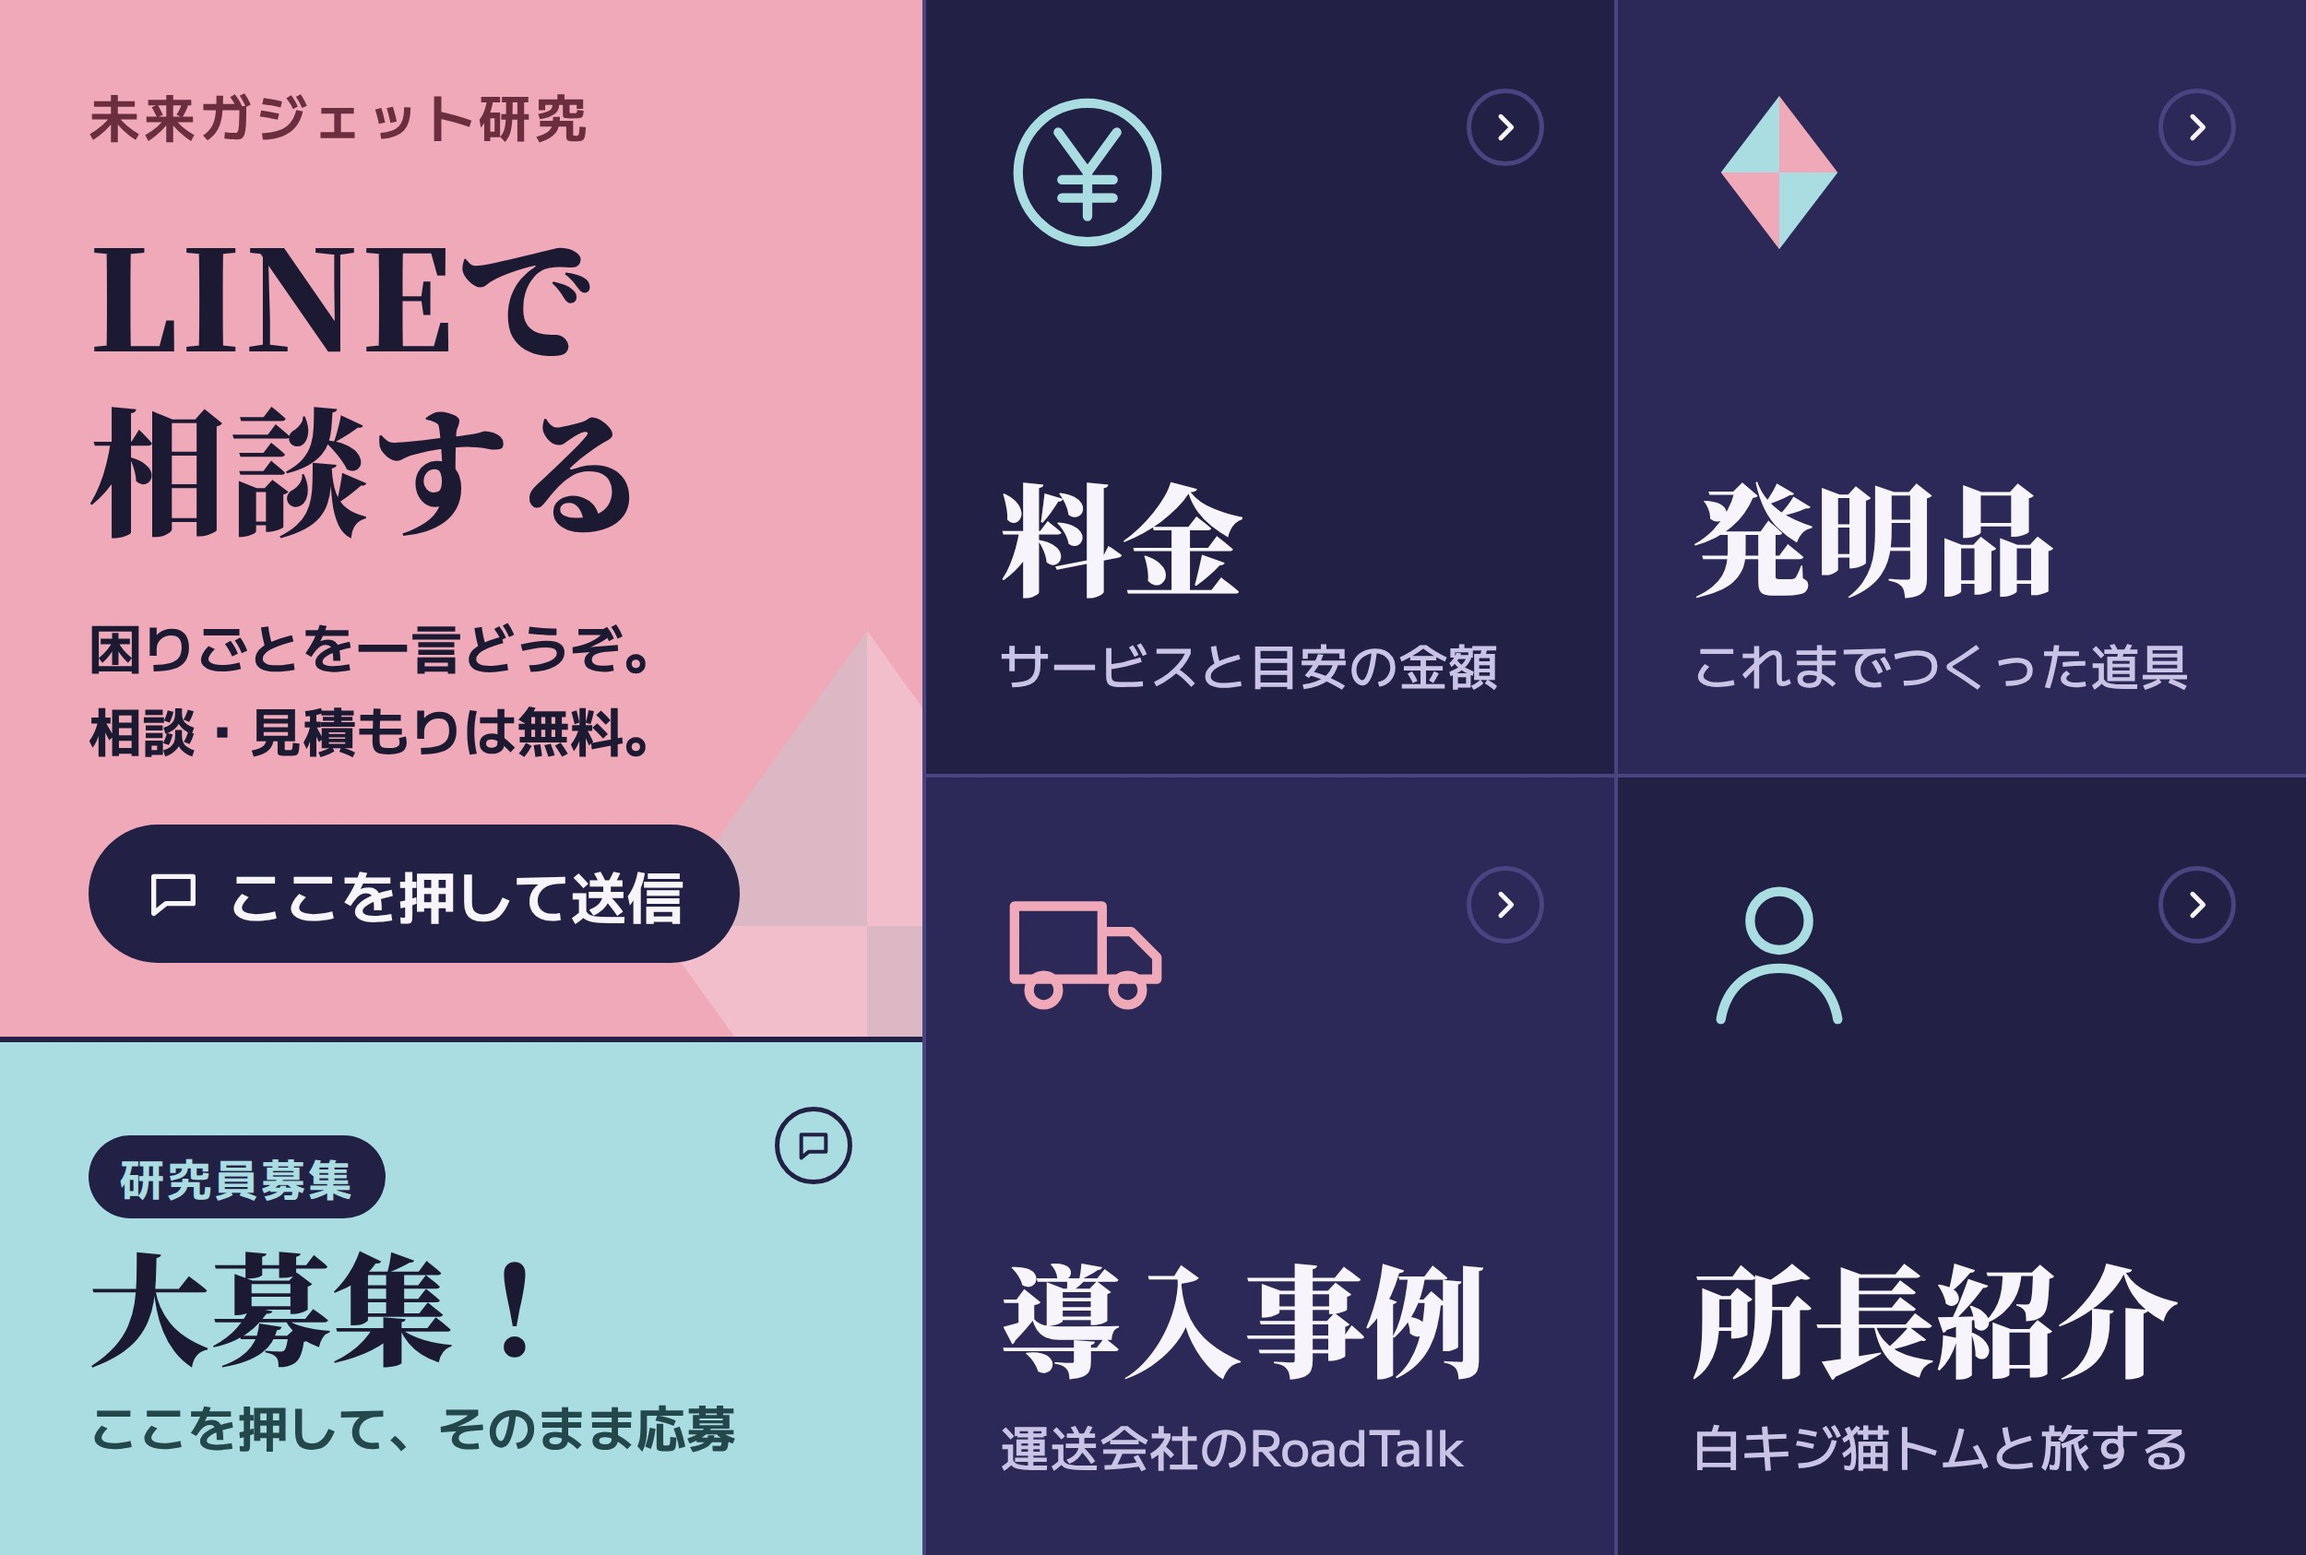
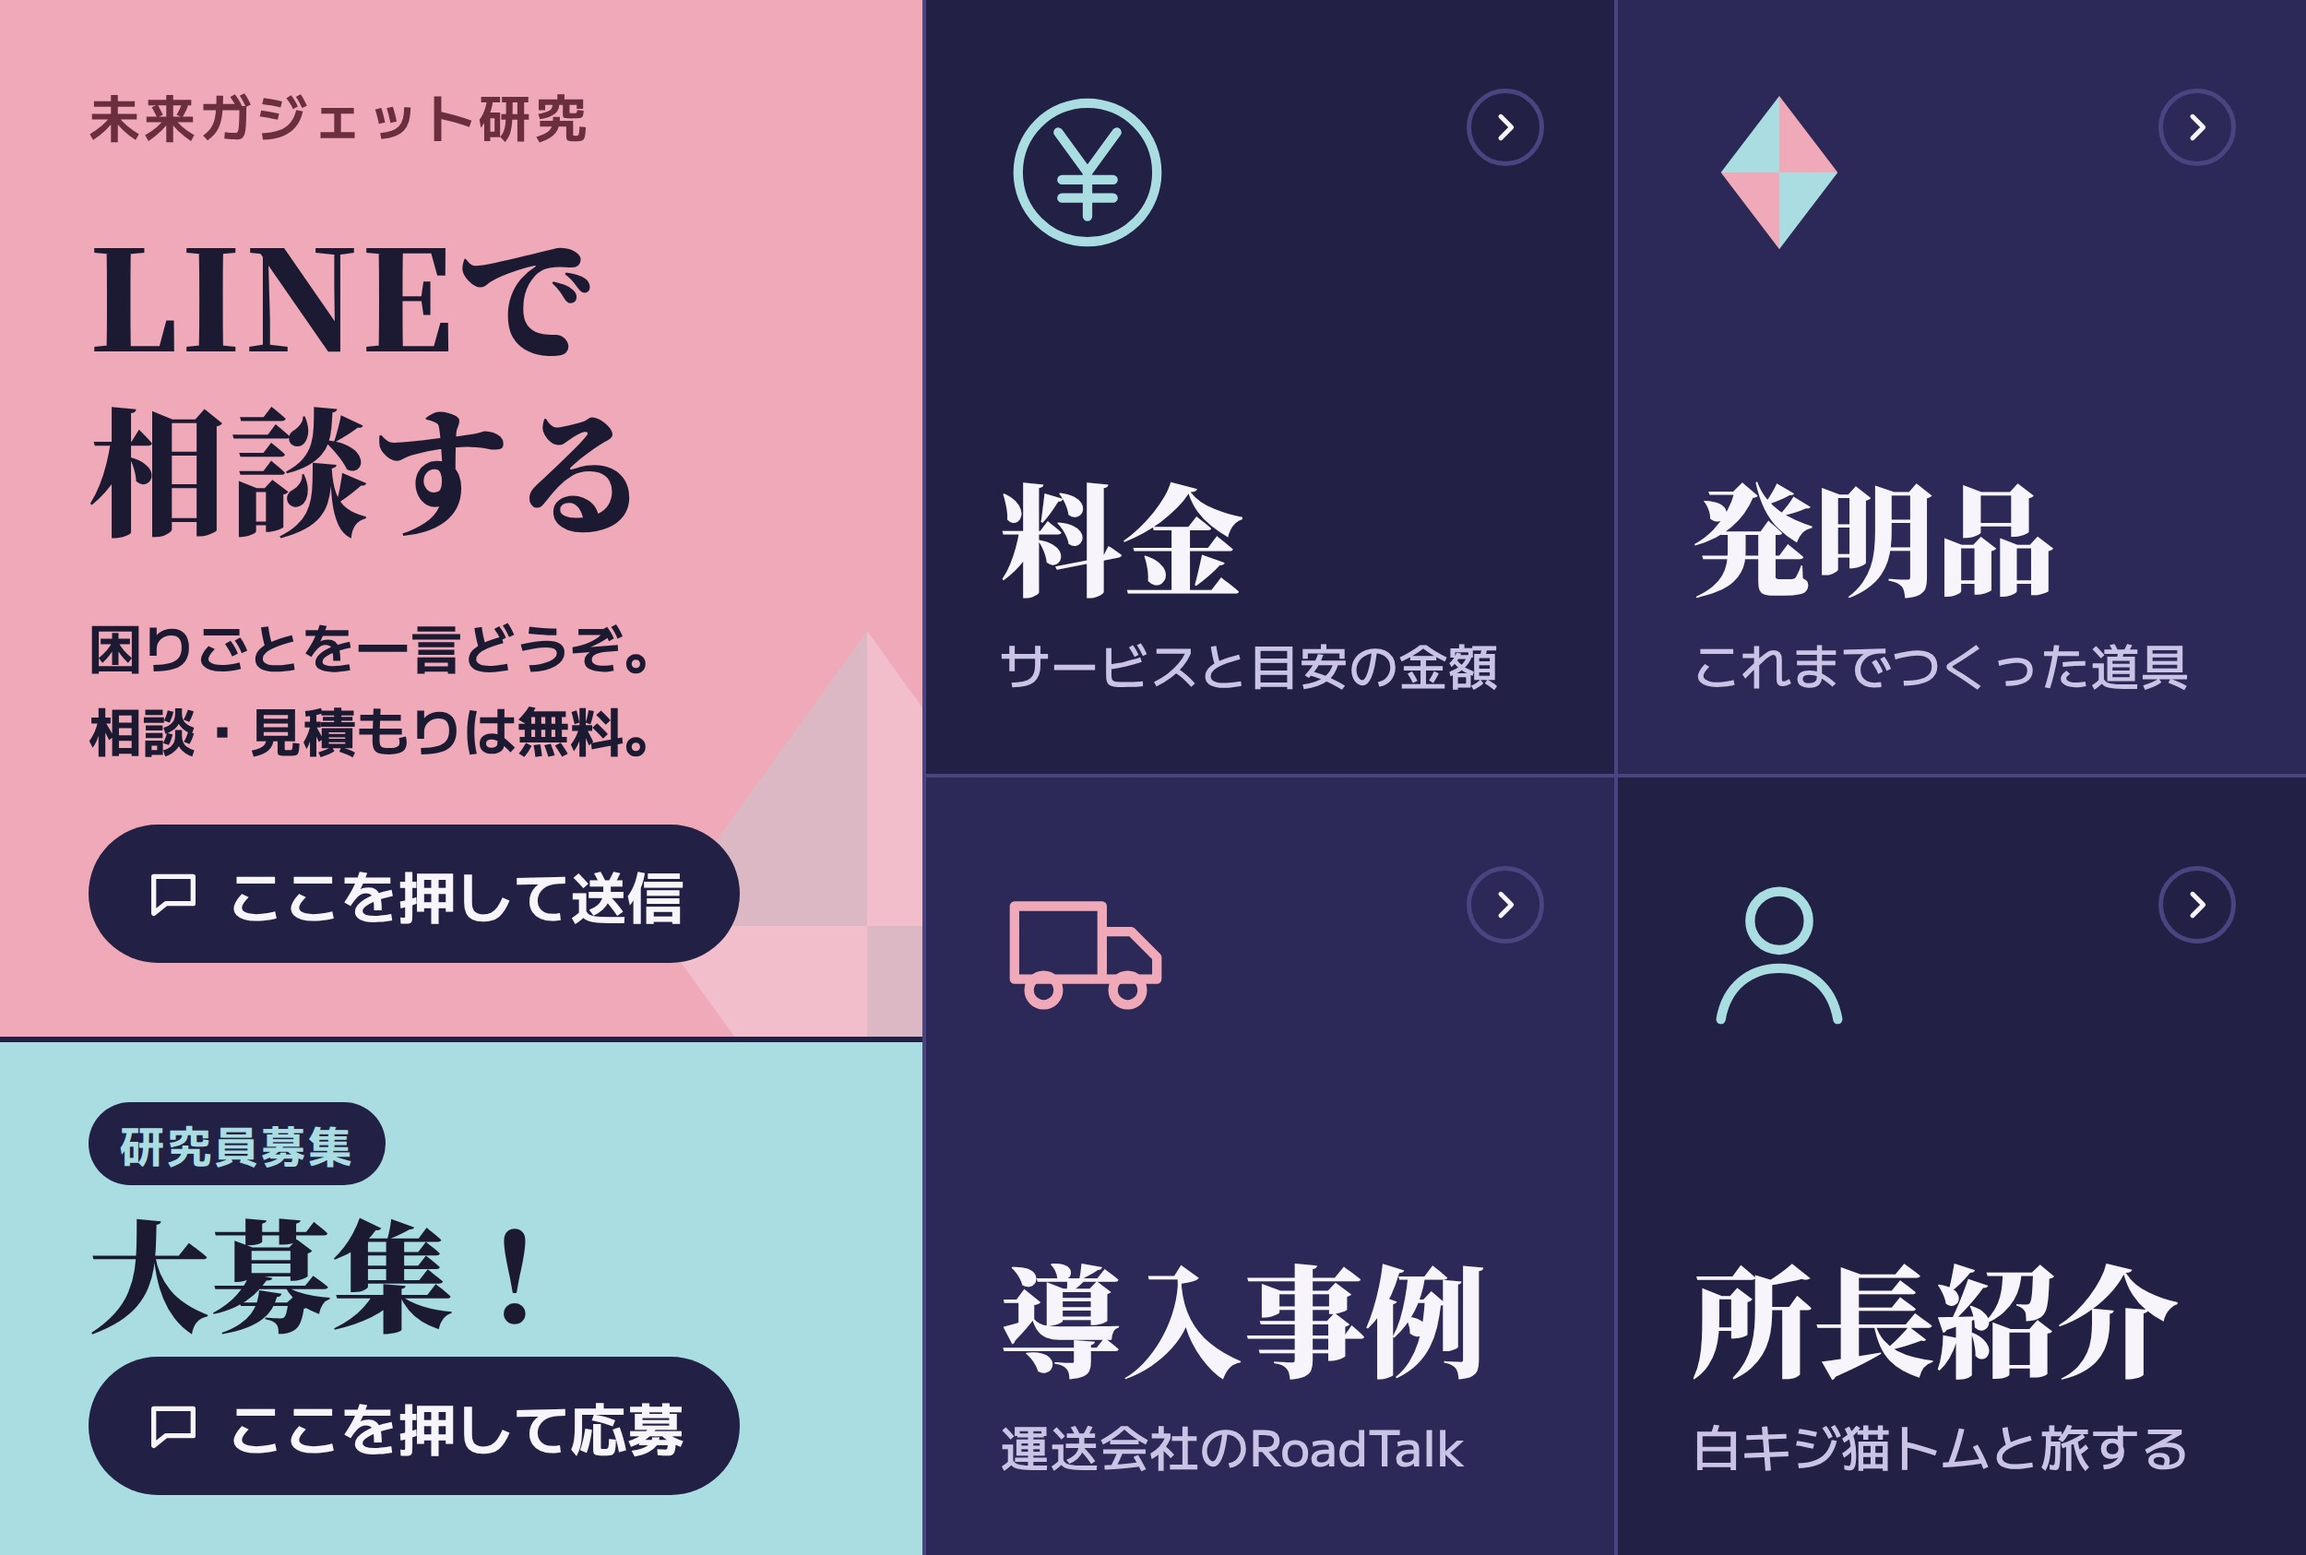
Use the same pill button for both rich menu areas that send a LINE message
Claude-Session: https://claude.ai/code/session_01DmCGjbxekuGBnB7SjmsW7E

Changed region(s): [[0.0312, 0.7094, 0.3432, 0.987], [0.3432, 0.7094, 0.3744, 0.7711]]

diff --git a/line/richmenu.html b/line/richmenu.html
@@ -7,7 +7,8 @@
 <link href="https://fonts.googleapis.com/css2?family=Noto+Serif+JP:wght@700;900&amp;family=M+PLUS+1:wght@500;700&amp;display=swap" rel="stylesheet">
 <style>
 /* LINEリッチメニューの画像の元データ。puppeteerで2500×1686のJPEGに書き出す。
-   タップ領域は line/richmenu.json の areas と一致させること。 */
+   タップ領域は line/richmenu.json の areas と一致させること。
+   ボタンの決まり：LINEでメッセージを送る場所は丸い帯（.chip）、ページを開く場所は右上の矢印の丸（.arrow）。 */
 :root{--ink:#232046;--ink-deep:#1C1A33;--panel:#2C2858;--line:#4A4480;--paper:#F7F5FB;--cyan:#A9DDE2;--pink:#F0A9B9;--muted:#C9C4E6}
 *{box-sizing:border-box;margin:0}
 html,body{width:2500px;height:1686px;overflow:hidden;background:var(--ink)}
@@ -20,9 +21,6 @@ body{font-family:'M PLUS 1',sans-serif;color:var(--paper)}
 .recruit{height:562px;background:var(--cyan);color:var(--ink-deep);border-top:6px solid var(--ink);padding:70px 96px;display:flex;flex-direction:column;justify-content:center;gap:20px;position:relative;overflow:hidden}
 .recruit .tag{align-self:flex-start;background:var(--ink);color:var(--cyan);font-size:48px;font-weight:700;border-radius:999px;padding:10px 34px;letter-spacing:.06em}
 .recruit b{font-family:'Noto Serif JP',serif;font-weight:900;font-size:132px;line-height:1.1;white-space:nowrap}
-.recruit small{font-size:54px;font-weight:700;color:#24474C;white-space:nowrap}
-.recruit .arrow{border-color:var(--ink);top:70px}
-.recruit .arrow svg path{stroke:var(--ink)}
 .consult::after{content:"";position:absolute;right:-170px;bottom:-200px;width:460px;height:640px;opacity:.28;
   background:conic-gradient(from 0deg at 50% 50%,var(--paper) 0 90deg,var(--cyan) 90deg 180deg,var(--paper) 180deg 270deg,var(--cyan) 270deg 360deg);
   clip-path:polygon(50% 0,100% 50%,50% 100%,0 50%)}
@@ -57,9 +55,8 @@ body{font-family:'M PLUS 1',sans-serif;color:var(--paper)}
 </div>
 <div class="recruit">
 <span class="tag">研究員募集</span>
-<span class="arrow"><svg viewBox="0 0 24 24" fill="none" stroke-width="2.4" stroke-linejoin="round"><path d="M4 5h16v11H9l-5 4z"/></svg></span>
 <b>大募集！</b>
-<small>ここを押して、そのまま応募</small>
+<span class="chip"><svg width="64" height="64" viewBox="0 0 24 24" fill="none" stroke="currentColor" stroke-width="2" stroke-linejoin="round"><path d="M4 5h16v11H9l-5 4z"/></svg>ここを押して応募</span>
 </div>
 </div>
 
